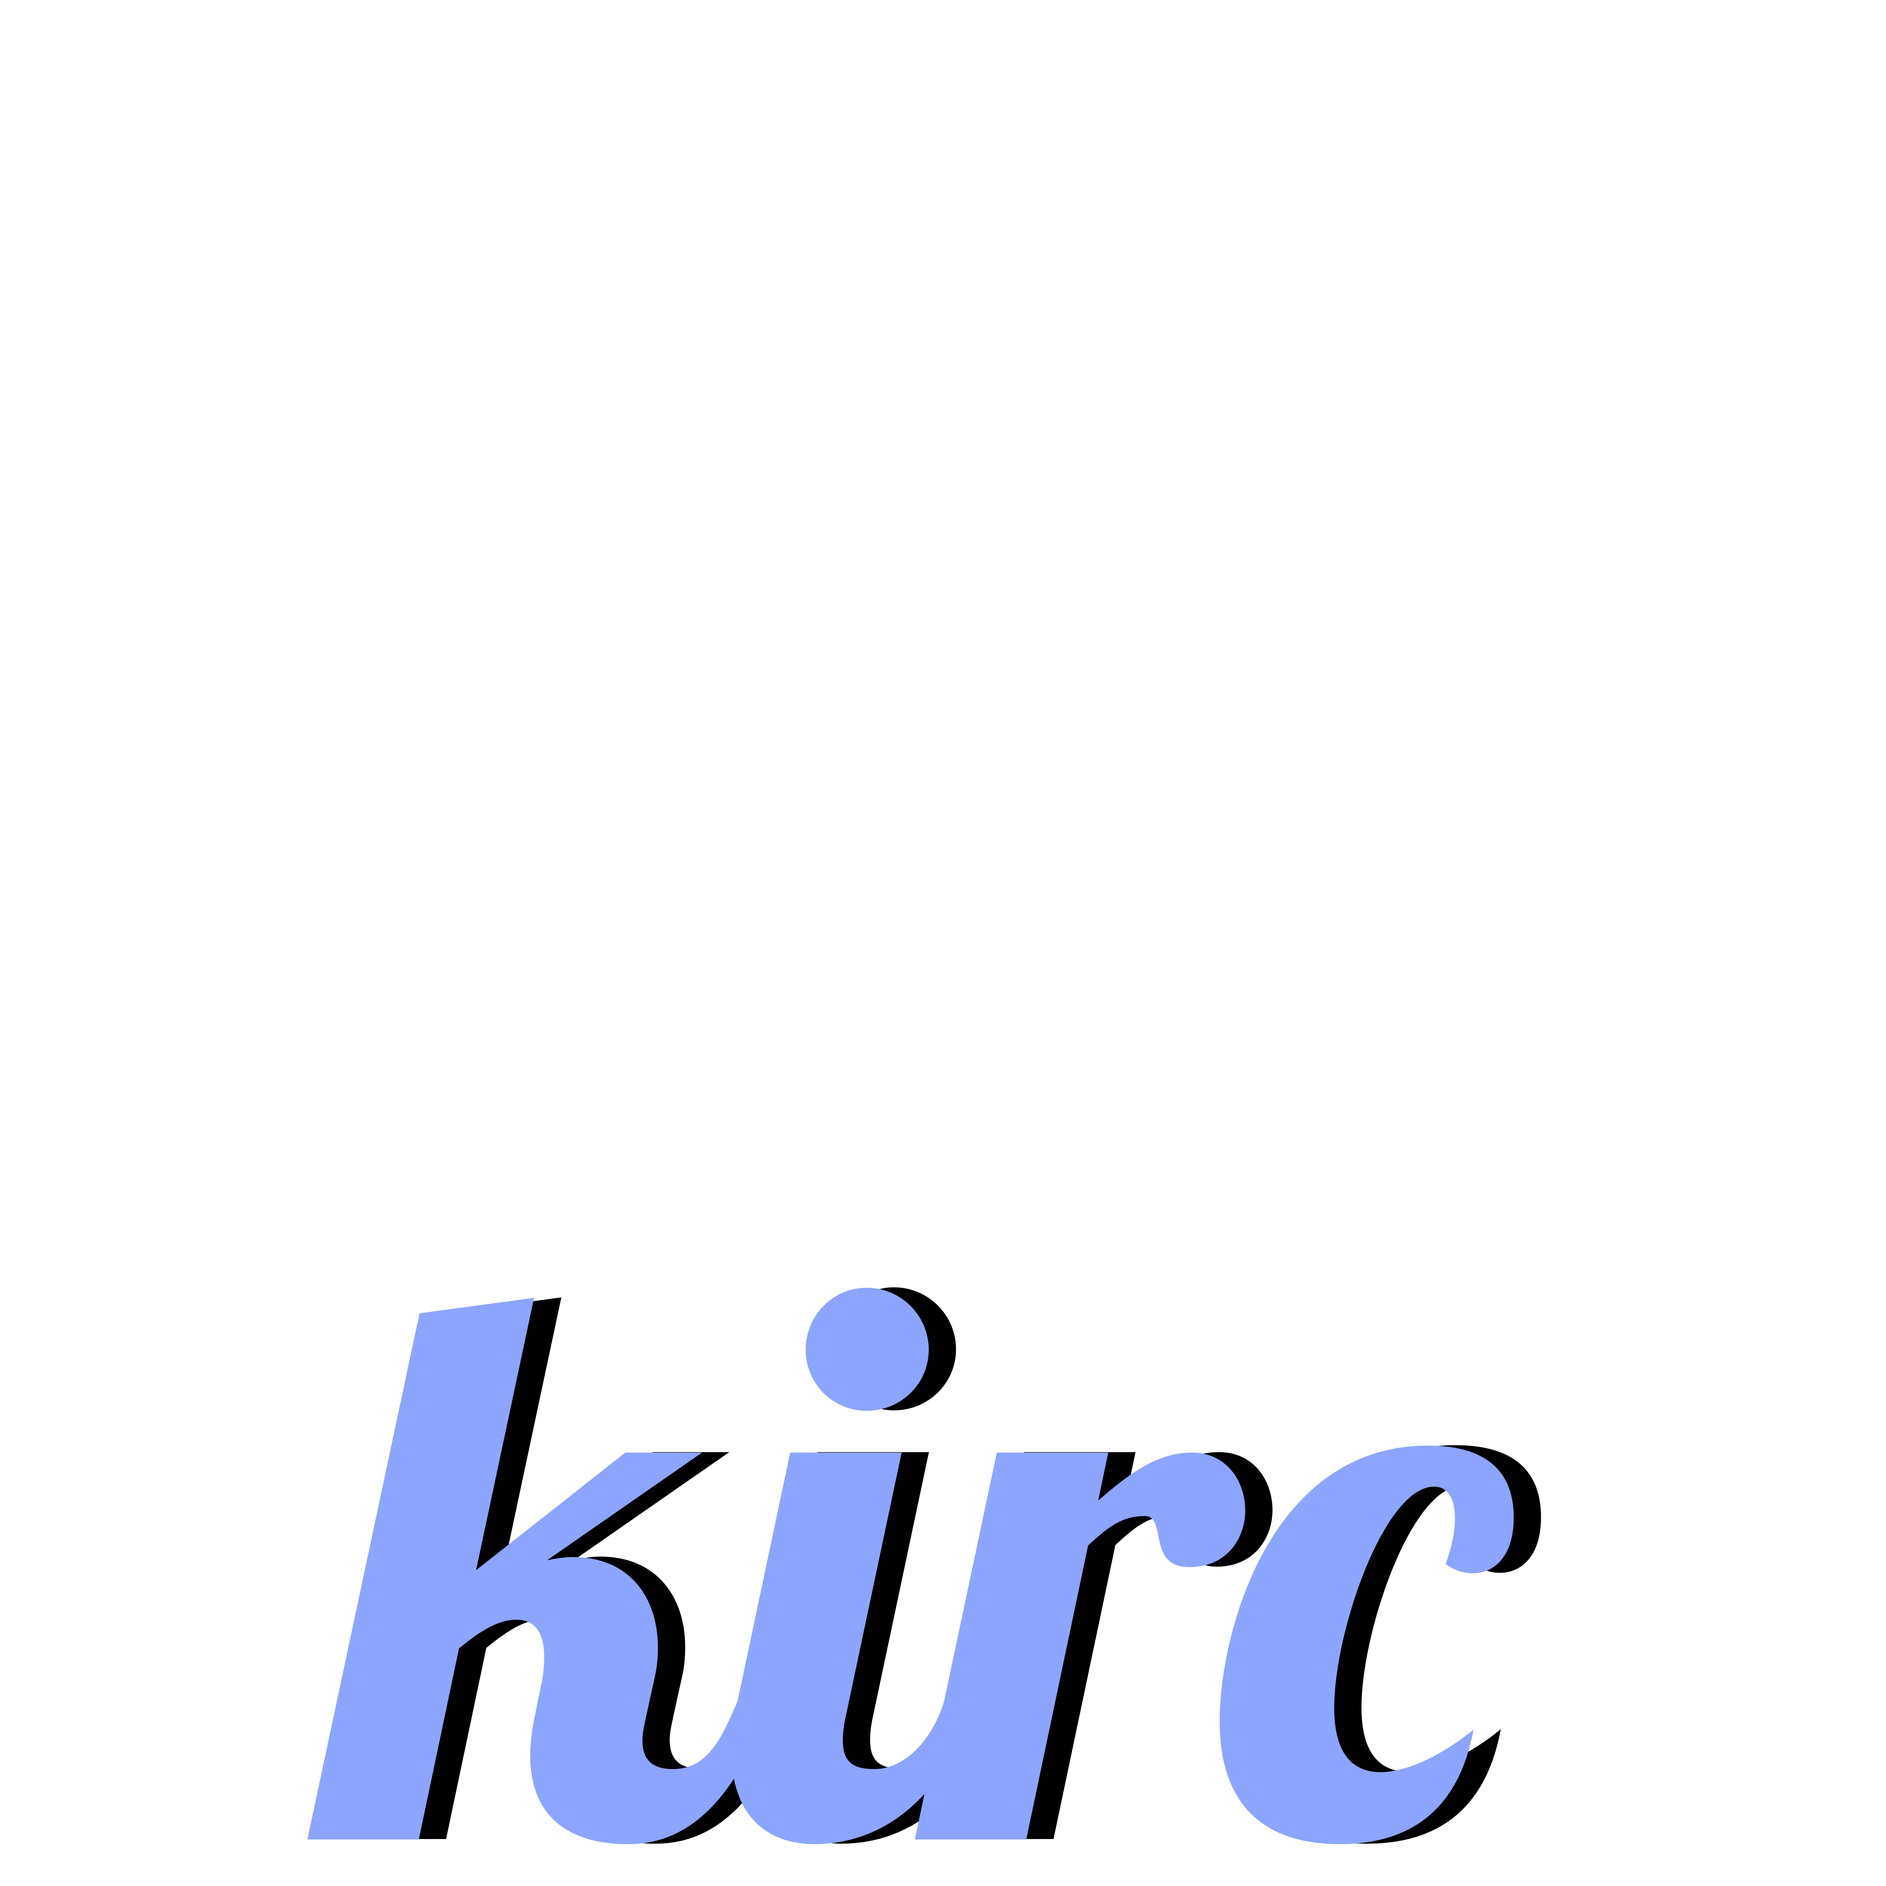
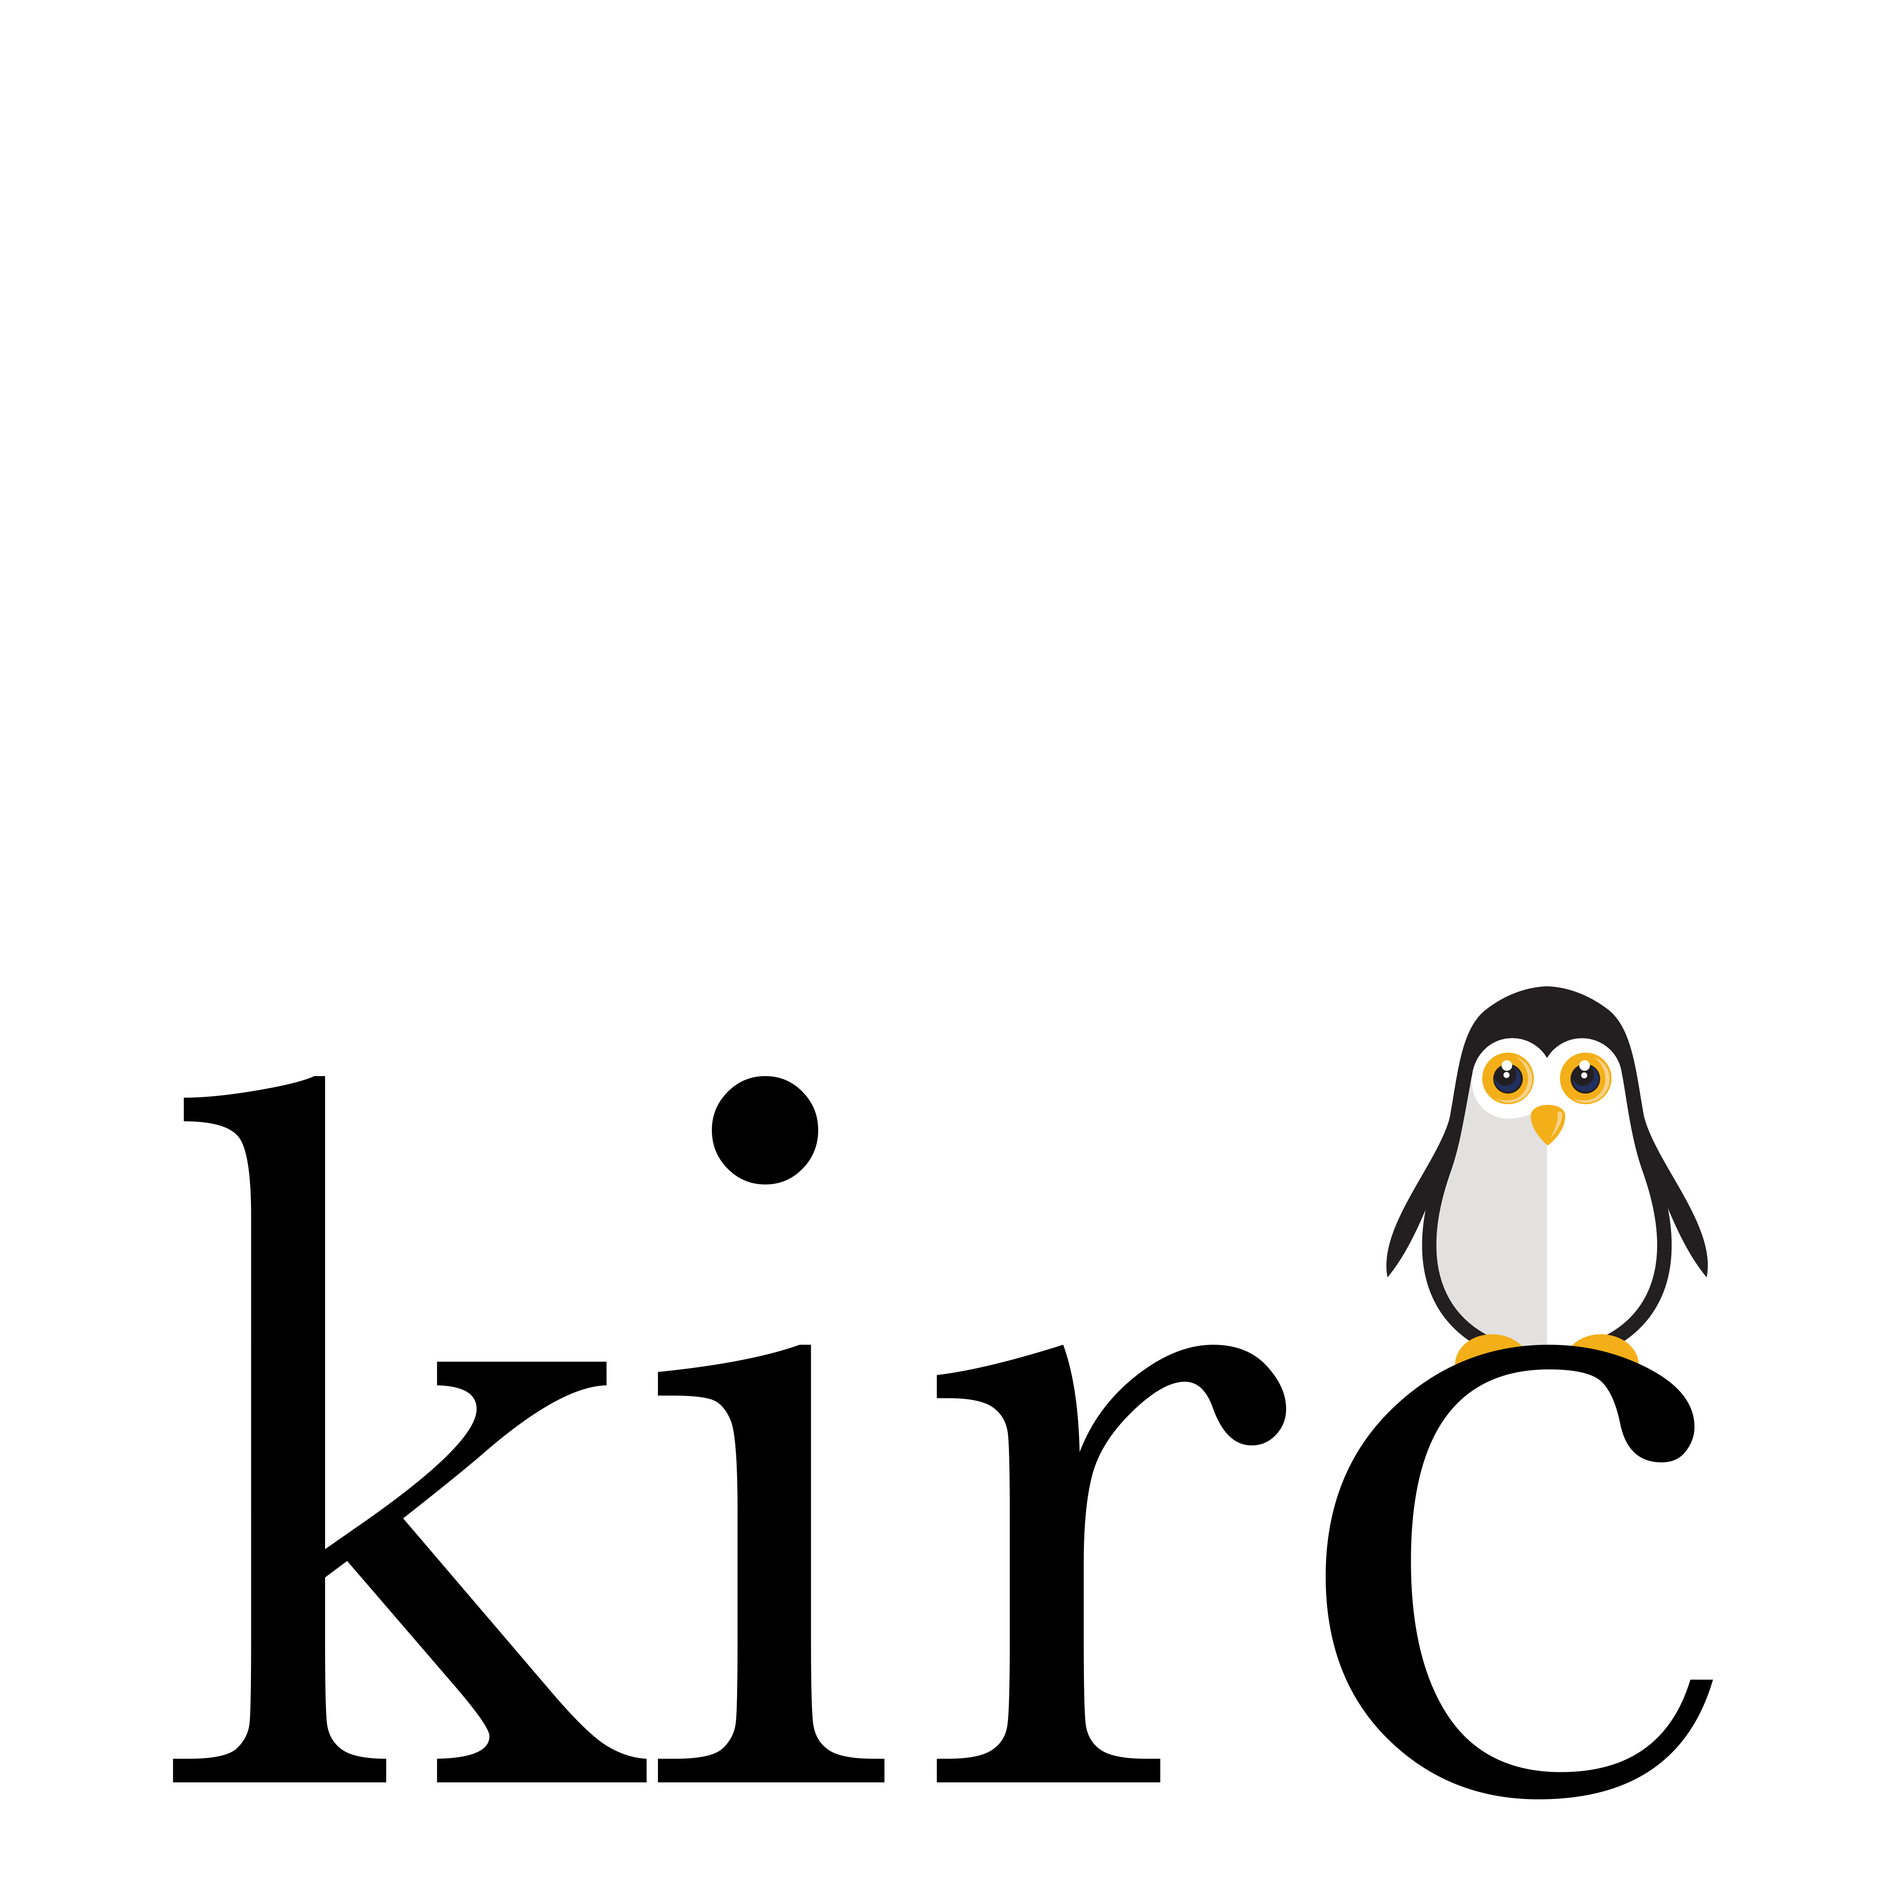
squash commits to address README and defaults
Update README.md

update logo

Update README.md

add multi-channel join argument option

simplify printw()

return after channel join

Update README.md

Update README.md

Update README.md

Update README.md

Update README.md

Update README.md

Update README.md

Update README.md

Update README.md

Add files via upload

Delete googled3f6f6cc852fad22.html

Add files via upload

Update README.md

Update README.md

Update README.md

Update README.md

Update README.md

Update README.md

Update README.md

Update README.md

Update README.md

increase chan variable size

Delete test

remove fixed chan buffer size

Changed region(s): [[0.0938, 0.5, 0.9062, 1.0], [0.375, 0.5625, 0.4375, 0.625]]

diff --git a/kirc.c b/kirc.c
@@ -21,12 +21,13 @@
 [-w columns] [-W columns] [-o path] [-h|v|V]"
 
 static int    conn;                      /* connection socket */
+static char   chan_default[MSG_MAX];     /* default channel for PRIVMSG */
 static int    verb = 0;                  /* verbose output (e.g. raw stream) */
 static size_t cmax = 80;                 /* max number of chars per line */
 static size_t gutl = 20;                 /* max char width of left column */
-static char   chan[CHA_MAX] = "kirc";    /* channel */
 static char * host = "irc.freenode.org"; /* irc host address */
 static char * port = "6667";             /* server port */
+static char * chan = NULL;               /* channel(s) */
 static char * nick = NULL;               /* nickname */
 static char * pass = NULL;               /* server password */
 static char * user = NULL;               /* server user name */
@@ -117,24 +118,10 @@ connection_initialize(void) {
 }
 
 static void
-printw(const char *format, ...) {
+message_wrap(char *line, size_t offset) {
 
-    va_list argptr;
-    char    *tok, line[MSG_MAX];
-    size_t  i, wordwidth, spaceleft = cmax, spacewidth = 1;
-
-    va_start(argptr, format);
-    vsnprintf(line, MSG_MAX, format, argptr);
-    va_end(argptr);
-
-    if (olog) log_append(line, olog);
-
-    for (i = 0; line[i] == ' '; ++i) {
-        putchar(line[i]);
-    }
-  
-    //spaceleft -= i - 1;
-    spaceleft -= i - 1 - 9; /* _temporary_ fix */
+    char    *tok;
+    size_t  wordwidth, spaceleft = cmax - gutl - offset, spacewidth = 1;
 
     for(tok = strtok(line, " "); tok != NULL; tok = strtok(NULL, " ")) {
         wordwidth = strlen(tok);
@@ -151,45 +138,55 @@ printw(const char *format, ...) {
 }
 
 static void
-raw_parser(char *usrin) {
+raw_parser(char *string) {
 
-    if (verb) printf(">> %s\n", usrin);
+    if (verb) printf(">> %s\n", string);
 
-    if (!strncmp(usrin, "PING", 4)) {
-        usrin[1] = 'O';
-        raw("%s\r\n", usrin);
+    if (!strncmp(string, "PING", 4)) {
+        string[1] = 'O';
+        raw("%s\r\n", string);
         return;
     }
 
-    if (!strncmp(usrin, "AUTHENTICATE +", 14)) {
+    if (!strncmp(string, "AUTHENTICATE +", 14)) {
         raw("AUTHENTICATE %s\r\n", auth);
         return;
     }
 
-    if (usrin[0] != ':') return;
+    if (string[0] != ':') return;
 
-    char *prefix = strtok(usrin, " ") + 1, *suffix = strtok(NULL, ":"),
+    if (olog) log_append(string, olog);
+
+    char *tok, *prefix = strtok(string, " ") + 1, *suffix = strtok(NULL, ":"),
          *message = strtok(NULL, "\r"), *nickname = strtok(prefix, "!"),
          *command = strtok(suffix, "#& "), *channel = strtok(NULL, " ");
     int  g = gutl, s = gutl - (strlen(nickname) <= gutl ? strlen(nickname) : gutl);
+    size_t offset = 0;
 
-    if (!strncmp(command, "001", 3)) {
-        raw("JOIN #%s\r\n", chan);
+    if (!strncmp(command, "001", 3) && chan != NULL) {
+        for (tok = strtok(chan, ",|"); tok != NULL; tok = strtok(NULL, ",|")) {
+            strcpy(chan_default, tok);
+            raw("JOIN #%s\r\n", tok);
+        } return;
     } else if (!strncmp(command, "90", 2)) {
         raw("CAP END\r\n");
     } else if (!strncmp(command, "QUIT", 4)) {
-        printw("%*s<-- \x1b[34;1m%s\x1b[0m", g - 3, "", nickname);
+        printf("%*s<-- \x1b[34;1m%s\x1b[0m\n", g - 3, "", nickname);
+        return;
     } else if (!strncmp(command, "JOIN", 4)) {
-        printw("%*s--> \x1b[32;1m%s\x1b[0m", g - 3, "", nickname);
+        printf("%*s--> \x1b[32;1m%s\x1b[0m\n", g - 3, "", nickname);
+        return;
     } else if (!strncmp(command, "PRIVMSG", 7) && strcmp(channel, nick) == 0) {
-        printw("%*s\x1b[43;1m%-.*s\x1b[0m %s", s, "", g, nickname, message);
-    } else if (!strncmp(command, "PRIVMSG", 7) && strstr(channel, chan) == NULL) {
-        printw("%*s\x1b[33;1m%-.*s\x1b[0m [\x1b[33m%s\x1b[0m] %s", s, "", \
-        g, nickname, channel, message);
-    } else printw("%*s\x1b[33;1m%-.*s\x1b[0m %s", s, "", g, nickname, message);
+        printf("%*s\x1b[43;1m%-.*s\x1b[0m ", s, "", g, nickname);
+    } else if (!strncmp(command, "PRIVMSG", 7) && strstr(channel, chan_default) == NULL) {
+        printf("%*s\x1b[33;1m%-.*s\x1b[0m [\x1b[33m%s\x1b[0m] ", s, "", \
+        g, nickname, channel);
+        offset += 12 + strlen(channel);
+    } else printf("%*s\x1b[33;1m%-.*s\x1b[0m ", s, "", g, nickname);
+    message_wrap((message ? message : " "), offset);
 }
 
-static char message_buffer[MSG_MAX + 1];
+static char   message_buffer[MSG_MAX + 1];
 static size_t message_end = 0;
 
 static int
@@ -243,15 +240,15 @@ handle_user_input(void) {
 
     if (usrin[0] == '/') {
         if (usrin[1] == '#') {
-            strcpy(chan, usrin + 2);
-            printf("new channel: #%s\n", chan);
+            strcpy(chan_default, usrin + 2);
+            printf("new channel: #%s\n", chan_default);
         } else if (usrin[1] == '?' && msg_len == 3) {
-            printf("current channel: #%s\n", chan);
+            printf("current channel: #%s\n", chan_default);
         } else {
             raw("%s\r\n", usrin + 1);
         }
     } else {
-        raw("privmsg #%s :%s\r\n", chan, usrin);
+        raw("privmsg #%s :%s\r\n", chan_default, usrin);
     }
 }
 
@@ -259,7 +256,7 @@ static int
 keyboard_hit() {
 
     struct termios save, tp;
-    int byteswaiting;
+    int    byteswaiting;
 
     tcgetattr(STDIN_FILENO, &tp);
     save = tp;
@@ -280,8 +277,6 @@ main(int argc, char **argv) {
         switch (cval) {
             case 'V' : verb = 1;                     break;
             case 's' : host = optarg;                break;
-            case 'w' : gutl = atoi(optarg);          break;
-            case 'W' : cmax = atoi(optarg);          break;
             case 'p' : port = optarg;                break;
             case 'r' : real = optarg;                break;
             case 'u' : user = optarg;                break;
@@ -289,8 +284,10 @@ main(int argc, char **argv) {
             case 'o' : olog = optarg;                break;
             case 'n' : nick = optarg;                break;
             case 'k' : pass = optarg;                break;
-            case 'c' : strcpy(chan, optarg);         break;
+            case 'c' : chan = optarg;                break;
             case 'x' : inic = optarg;                break;
+            case 'w' : gutl = atoi(optarg);          break;
+            case 'W' : cmax = atoi(optarg);          break;
             case 'v' : printf("kirc %s\n", VERSION); return EXIT_SUCCESS;
             case 'h' : printf("usage: %s\n", USAGE); return EXIT_SUCCESS;
             case '?' :                               return EXIT_FAILURE;

diff --git a/README.md b/README.md
@@ -4,15 +4,33 @@
 <a href="./LICENSE"><img src="https://img.shields.io/badge/license-MIT-blue.svg"></a>
 <a href="https://github.com/mcpcpc/kirc/releases"><img src="https://img.shields.io/github/v/release/mcpcpc/kirc.svg"></a>
 <a href="https://repology.org/metapackage/kirc"><img src="https://repology.org/badge/tiny-repos/kirc.svg" alt="Packaging status"></a>
+<a href="https://www.codacy.com/manual/mcpcpc/kirc/dashboard?utm_source=github.com&amp;utm_medium=referral&amp;utm_content=mcpcpc/kirc&amp;utm_campaign=Badge_Grade"><img src="https://app.codacy.com/project/badge/Grade/5616c0ed4b2f4209826038dbc270dbf5" alt="Codacy status"></a>
 </p>
 
-## Objectives
+## Features
 
-_"Do one thing and do it well"_  —  Emphasis was placed on building simple, short, clear, modular, and extensible code that can be easily maintained and repurposed (per the [Unix philosophy](https://en.wikipedia.org/wiki/Unix_philosophy)).
+*   Excellent cross-platform compatibility (due to [POSIX](https://opensource.com/article/19/7/what-posix-richard-stallman-explains) standard compliance).
+*   No dependencies other than a [C99 compiler](https://en.wikipedia.org/wiki/C99).
+*   Native [PLAIN SASL](https://tools.ietf.org/html/rfc4422) authentication support.
+*   [TLS/SSL](https://en.m.wikipedia.org/wiki/Transport_Layer_Security) protocol capable (via external TLS utilities).
+*   Chat history logging.
+*   Multi-channel joining at server connection.
+*   Simple shortcut commands and full support for all IRC commands in the [RFC 2812](https://tools.ietf.org/html/rfc2812) standard:
 
-_Portability_ — [POSIX](https://en.wikipedia.org/wiki/POSIX) compliance ensures seamless compatibility and interoperability between variants of Unix and other operating systems.
+```shell
+<message>   Send a PRIVMSG to the current channel.
+/<command>  Send command to IRC server (see RFC 2812 for full list).
+/#<channel> Assign new default message channel.
+/?          Print current message channel.
+```
 
-_Usability_ — Commands and shortcuts should feel "natural" when using a [standard 104-key US keyboard layout](https://en.wikipedia.org/wiki/Keyboard_layout).  Where possible, the number of keystrokes have been minimized.
+*   Color scheme definition via [ANSI 8-bit colors](https://en.wikipedia.org/wiki/ANSI_escape_code). Therefore, one could theoretically achieve uniform color definition across all shell applications and tools.
+
+## Screenshots
+
+![Screenshot 1](/.github/example.png)
+
+![Screenshot 1](/.github/example2.png)
 
 ## Usage
 
@@ -20,7 +38,7 @@ _Usability_ — Commands and shortcuts should feel "natural" when using a [stand
 usage: kirc [-s hostname] [-p port] [-c channel] [-n nick] [-r real name] [-u username] [-k password] [-x init command] [-w columns] [-W columns] [-o path] [-h|v|V]
 -s     server address (default: 'irc.freenode.org')
 -p     server port (default: '6667')
--c     channel name (default: 'kirc')
+-c     channel name(s), delimited by a "," or "|" character (default: 'kirc')
 -n     nickname (required)
 -u     server username (optional)
 -k     server password (optional)
@@ -30,32 +48,10 @@ usage: kirc [-s hostname] [-p port] [-c channel] [-n nick] [-r real name] [-u us
 -V     verbose output (e.g. raw stream)
 -o     output path to log irc stream
 -x     send command to irc server after inital connection
--w     maximum width of the printed left column (default: '10')
+-w     maximum width of the printed left column (default: '20')
 -W     maximum width of the entire printed stream (default '80')
 -h     basic usage information
 ```
-
-## Features
-
-* No dependencies other than a [C99 compiler](https://gcc.gnu.org/).
-* Supports IPv4 and IPv6 connections.
-* Supports [PLAIN SASL](https://tools.ietf.org/html/rfc4422) authentication methods.
-* Can be used in conjunction with an [TLS/SSL](https://en.m.wikipedia.org/wiki/Transport_Layer_Security) client to communicate across a network in a way designed to prevent eavesdropping and tampering.
-* Ability to log the entire chat history  (see _Usage_ section for more information).
-* Simple commands and full support for all IRC commands in the [RFC 2812](https://tools.ietf.org/html/rfc2812) standard:
-
-```shell
-<message>   Send a PRIVMSG to the current channel.
-/<command>  Send command to IRC server (see RFC 2812 for full list).
-/#<channel> Assign new default message channel.
-/?          Print current message channel.
-```
-
-* Color scheme definition via [ANSI 8-bit colors](https://en.wikipedia.org/wiki/ANSI_escape_code). Therefore, one could theoretically achieve uniform color definition across all shell applications and tools.
-
-## Screenshots
-
-![Screenshot 1](/.github/example.png)
 
 ## Installation
 
@@ -87,14 +83,14 @@ make install
 
 There is no native TLS/SSL support. Instead, users can achieve this functionality by using third-party tools (e.g. stunnel, socat, ghosttunnel).
 
-* _socat_ example:
+*   _socat_ example:
 
 ```shell
 socat tcp-listen:6667,reuseaddr,fork,bind=127.0.0.1 ssl:<irc-server>:6697
 kirc -s 127.0.0.1 -c 'channel' -n 'name' -r 'realname'
 ```
 
-## PLAIN SASL Support
+## PLAIN SASL Authentication
 
 In order to connect using PLAIN SASL authentication, the user must provide the required token during the initial connection. If the authentication token is base64 encoded and, therefore, can be generated a number of ways. For example, using Python, one could use the following:
 
